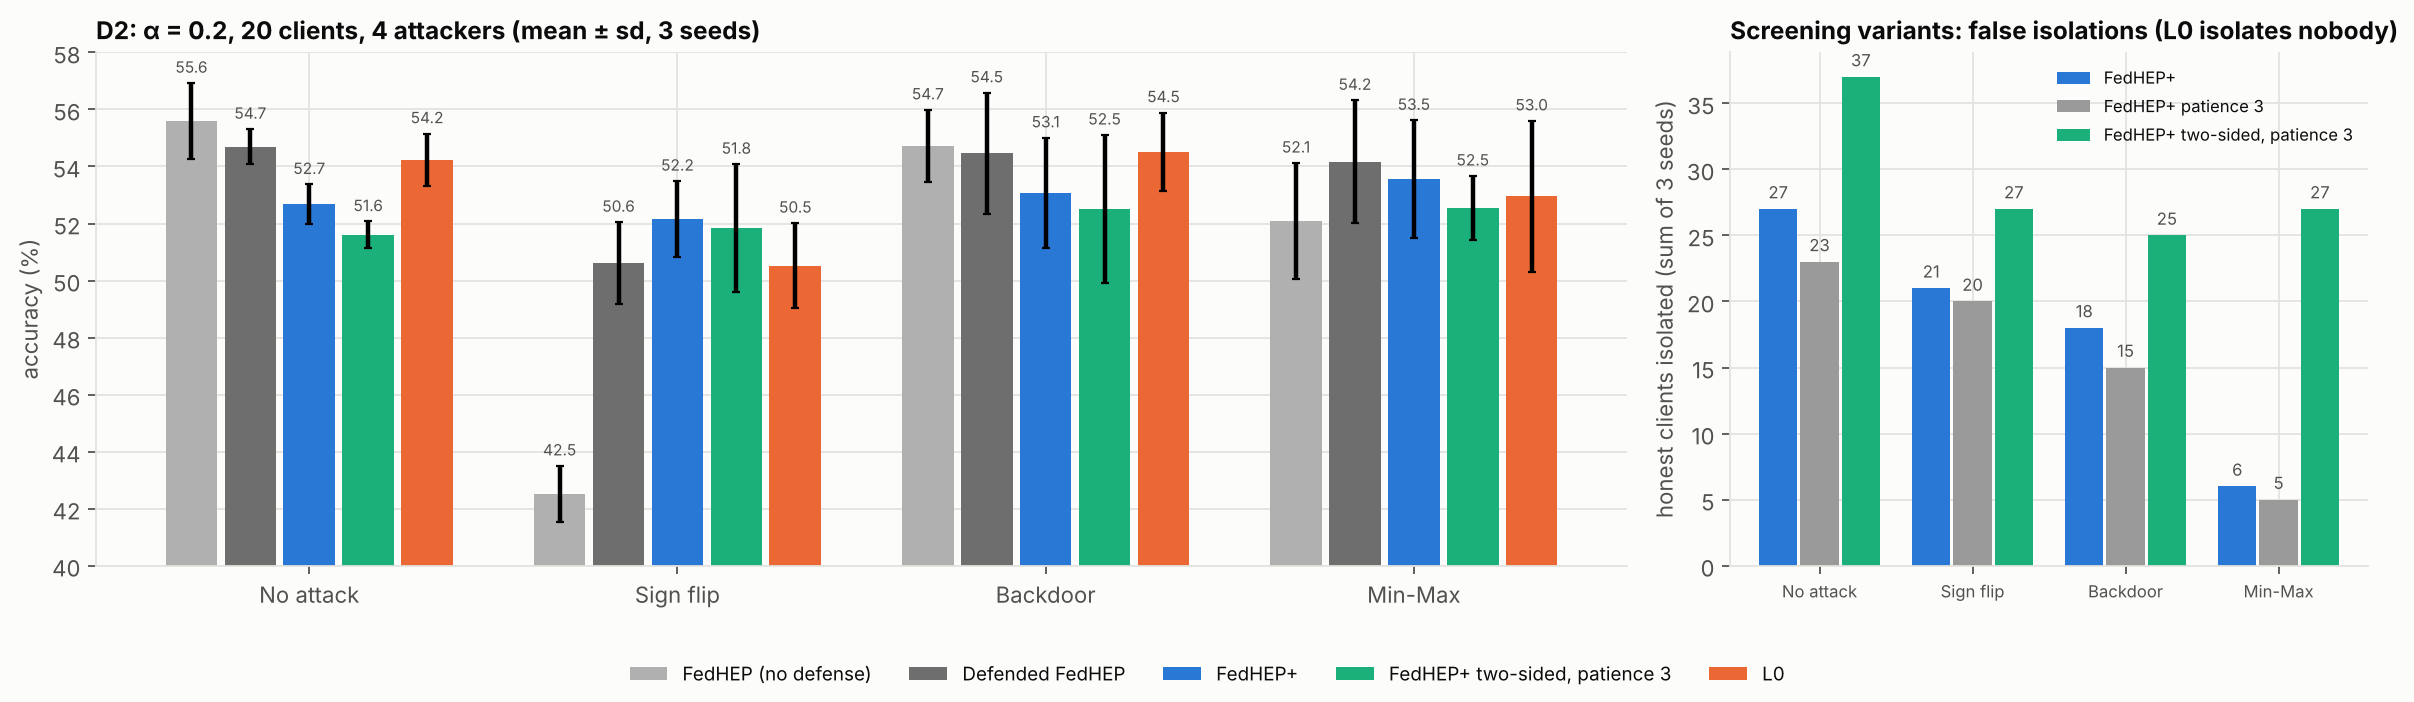
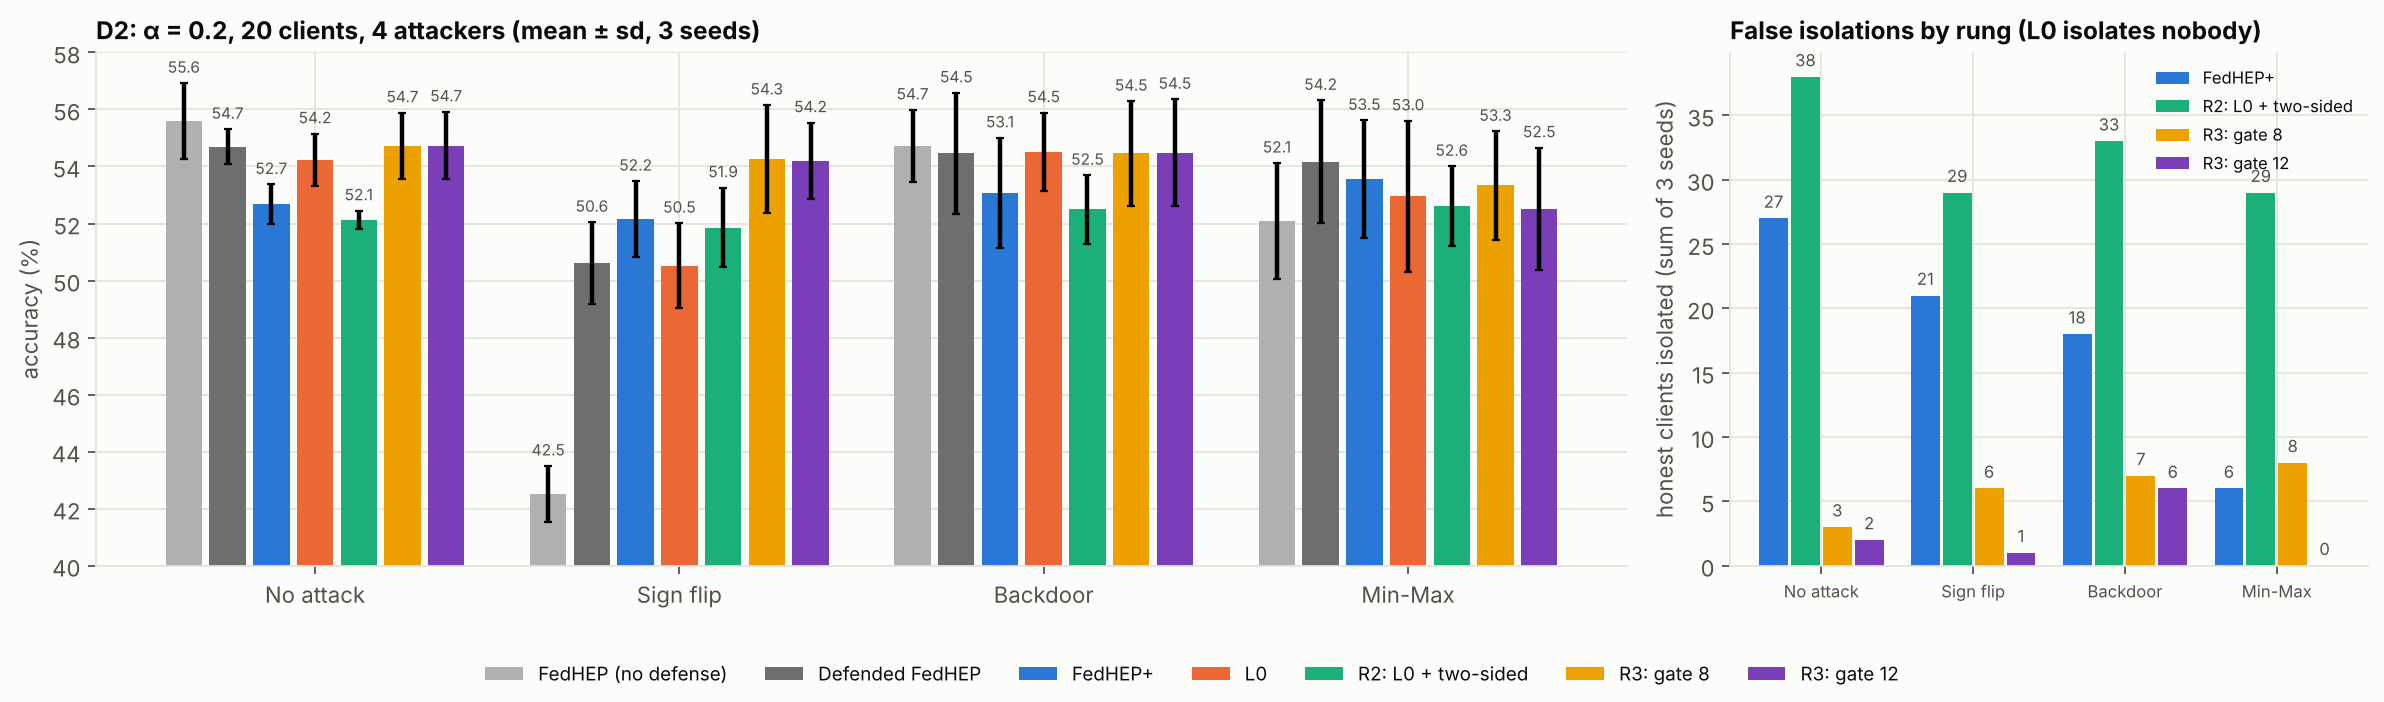
D2 ladder analysis and figure; Mac and Acer sweeps for the campaign while the GPU server is unavailable
Claude-Session: https://claude.ai/code/session_01PHkRgbQ7u74x39uCQjqDze

diff --git a/scripts/plot_phase6.py b/scripts/plot_phase6.py
@@ -66,23 +66,25 @@ def fig_d2(runs: dict) -> None:
     attacks = [("clean", "No attack"), ("sign4", "Sign flip"), ("backdoor4", "Backdoor"), ("minmax4", "Min-Max")]
     methods = [("a02__fedhep", "FedHEP (no defense)", "#b0b0b0"), ("a02__defended", "Defended FedHEP", "#6e6e6e"),
                ("a02__plus", "FedHEP+", pr.SLOT[0]),
-               ("a02__plus_p3_two", "FedHEP+ two-sided, patience 3", pr.SLOT[2]),
-               ("a02__l0", "L0", pr.SLOT[1])]
+               ("a02__l0", "L0", pr.SLOT[1]),
+               ("a02__r2", "R2: L0 + two-sided", pr.SLOT[2]),
+               ("a02__r3g8", "R3: gate 8", pr.SLOT[3]),
+               ("a02__r3g12", "R3: gate 12", "#7a3fb8")]
     fig, (ax, ax2) = plt.subplots(1, 2, figsize=(15, 4.4), gridspec_kw={"width_ratios": [2.4, 1]})
-    _grouped(ax, runs, methods, attacks, 0.16)
+    _grouped(ax, runs, methods, attacks, 0.12)
     ax.set_ylim(40, 58)
     ax.set_title("D2: α = 0.2, 20 clients, 4 attackers (mean ± sd, 3 seeds)")
-    variants = [methods[2], ("a02__plus_p3", "FedHEP+ patience 3", "#9a9a9a"), methods[3]]
+    variants = [methods[2], methods[4], methods[5], methods[6]]
     for j, (prefix, label, color) in enumerate(variants):
         hon = [sum(_false(m) for m in _runs(runs, f"{prefix}__{a}")) for a, _ in attacks]
-        pr.bar_labels(ax2, ax2.bar([i + (j - 1) * 0.27 for i in range(4)], hon, 0.25, color=color, label=label),
+        pr.bar_labels(ax2, ax2.bar([i + (j - 1.5) * 0.21 for i in range(4)], hon, 0.19, color=color, label=label),
                       fmt="{:.0f}", size=7.5)
     ax2.set_xticks(range(4), [label for _, label in attacks], fontsize=7.5)
     ax2.set_ylabel("honest clients isolated (sum of 3 seeds)")
-    ax2.set_title("Screening variants: false isolations (L0 isolates nobody)")
+    ax2.set_title("False isolations by rung (L0 isolates nobody)")
     ax2.legend(fontsize=7.5)
     fig.tight_layout(rect=(0, 0.09, 1, 1))
-    fig.legend(*ax.get_legend_handles_labels(), ncols=5, fontsize=8.5, loc="lower center", frameon=False)
+    fig.legend(*ax.get_legend_handles_labels(), ncols=7, fontsize=8.5, loc="lower center", frameon=False)
     pr.save(fig, "phase6_d2.png")
 
 

diff --git a/docs/EXPERIMENT_LOG.md b/docs/EXPERIMENT_LOG.md
@@ -1055,3 +1055,44 @@ Written into the code today, all tested (104 tests pass): head-agreement inferen
 | 5 | `gpu_c6_durability` | 21 | P13: 100 rounds, backdoor stopped at round 50; lifespan |
 
 Every run also records the depth-exit guard and head-agreement metrics, so no separate runs are needed for them. Results are compared only with other CUDA runs. The predictions each sweep is checked against are in `PREDICTIONS.md`.
+
+## 2026-11-17 · D2 ladder complete: the gate holds at α = 0.2; backdoor by attacker share
+All 36 runs of `phase6_ladder_d2` are done (Mac, MPS). D2: α = 0.2, 20 clients, 4 attackers, mean of 3 seeds. Honest isolated is the sum over 3 seeds of honest clients isolated by round 30.
+
+![D2 ladder](figures/phase6_d2.png)
+
+| Method | No attack | Sign flip | Min-Max | Backdoor (success) | Honest isolated (no attack / sign / Min-Max / backdoor) |
+|---|---|---|---|---|---|
+| FedHEP (no defense) | **55.59** | 42.51 | 52.10 | 54.72 (46.9%) | 0 |
+| Defended FedHEP | 54.70 | 50.62 | **54.16** | 54.47 (44.3%) | 0 |
+| FedHEP+ | 52.68 | 52.15 | 53.55 | 53.08 (43.3%) | 27 / 21 / 6 / 18 |
+| L0 alone | 54.23 | 50.52 | 52.96 | 54.51 (**37.7%**) | 0 |
+| R2: L0 + two-sided | 52.13 | 51.86 | 52.62 | 52.49 (44.1%) | 38 / 29 / 29 / 33 |
+| R3, gate 8 | 54.72 | **54.26** | 53.34 | 54.46 (45.3%) | 3 / 6 / 8 / 7 |
+| R3, gate 12 | **54.73** | 54.19 | 52.51 | 54.49 (45.3%) | 2 / 1 / 0 / 6 |
+
+- **The gate works at strong heterogeneity.** R3 with gate 12 is within 0.9 points of the undefended model with no attack and isolates 2 honest clients over 3 seeds, where FedHEP+ isolated 27 and lost 2.9 points. Under sign flip it is the best method by 2 points (54.2 vs FedHEP+ 52.2, Defended 50.6), catching all 4 attackers on every seed. This is the D2 result the Phase 5 follow-up was missing: FedHEP+'s advantage now carries over to α = 0.2.
+- **Min-Max is the one attack where isolation costs:** gate 12 isolates the attackers in 1 of 3 seeds and scores 52.5, below Defended FedHEP (54.2) and L0 (53.0). The same pattern as ALIE at D1: when attackers sit near the mean, bounding beats isolating. The ALIE-puzzle runs (`mac_c2_alie`) test the explanation.
+- **The backdoor is untouched by every rung at D2** (44–45% success; L0 alone 38%; no defense 47%). Per head: root 86%, parent 48–62%, local 12–15%, a wider gap than at D1 (root 29–71%, local 8–22%). The personal heads resist more at α = 0.2 because each sees fewer classes. Head-agreement inference (P11) should gain more here, and it is on in every new run.
+
+**Backdoor by attacker share** (D1, 15 clients, 30 rounds; FedHEP+ = `zmr`):
+
+| Attackers | FedAvg | FedHEP | Defended | FedHEP+ (honest / attackers isolated) |
+|---|---|---|---|---|
+| 10% (1–2) | 43.1% | 42.3% | 36.2% | **1.3%** (3.7 / 1.0) |
+| 30% (4–5) | 90.9% | 83.9% | 83.8% | 50.2% (3.3 / 4.7) |
+| 40% (6) | 93.4% | 87.3% | 86.5% | 74.9% (2.3 / 4.7) |
+
+FedHEP+ stops the backdoor at 10% attackers and degrades with the share; FedHEP's hierarchy alone gives at most 7 points over FedAvg. Accuracy: FedHEP+ loses 2.7 points to Defended at 40% (42.7 vs 46.1).
+
+**Sign-election pilots** (`frontier_pilot_*`, seed 42, synthetic data): a colleague's first pass at idea 10 from `IDEAS_FRONTIER.md`; the rule is in the Mac working tree, not yet committed. On the synthetic problem sign election matches L0 with no attack (3.6 vs 3.7) and beats ARC+NNM under ALIE (3.5 vs 3.1). CIFAR-100 runs are on the Acer (`acer_frontier_first`).
+
+**Run plan while the GPU server is unavailable** (each machine compares only with its own runs):
+
+| Machine | Sweep | Runs | Hours | Tests |
+|---|---|---|---|---|
+| Mac | `mac_c2_alie` | 24 | 5 | the ALIE puzzle (a, b, c) against the Mac's own `p6__r3g8` and `p6__l0` |
+| Mac | `mac_c5_recovery` | 42 | 9 | rewind trunk / trunk + root / all on the root-head and whole-update signals; backdoor on, and stopped at round 10 |
+| Acer | `acer_c6_durability` | 21 | 16 | 100 rounds, backdoor stopped at round 50: lifespan under each defense and the rewind |
+
+Every run records head-agreement inference and the exit guard, so P6 and P11 get their first CIFAR-100 answer from these runs. The GPU sweeps stay queued for the server; their runs are not duplicated here (different device, different names).

diff --git a/docs/OPERATIONS.md b/docs/OPERATIONS.md
@@ -146,13 +146,13 @@ A run that already has `metrics.json` is skipped, so an interrupted sweep resume
 Mac (keeps the machine awake):
 ```bash
 cd ~/Documents/AI_researching/Robust_Federated_Learning/RFL_Lab && source .venv/bin/activate
-caffeinate -i bash -c 'for s in phase6_ladder_d1 phase6_ladder_d2; do python scripts/sweep.py configs/sweeps/$s.yaml || break; done'
+caffeinate -i bash -c 'for s in mac_c2_alie mac_c5_recovery; do python scripts/sweep.py configs/sweeps/$s.yaml || break; done'
 ```
 Acer (inside tmux, so it survives closing the SSH window):
 ```bash
 tmux new -s rfl          # or: tmux attach -t rfl
 cd ~/Documents/RFL_Lab
-for s in followup_backdoor_heads followup_n30_sign; do python scripts/sweep.py configs/sweeps/$s.yaml || break; done
+for s in acer_c6_durability; do python scripts/sweep.py configs/sweeps/$s.yaml || break; done
 ```
 Detach with Ctrl-b then d; `tmux attach -t rfl` brings it back. Check progress from anywhere: `ls ~/Documents/RFL_Lab/outputs | wc -l`.
 
